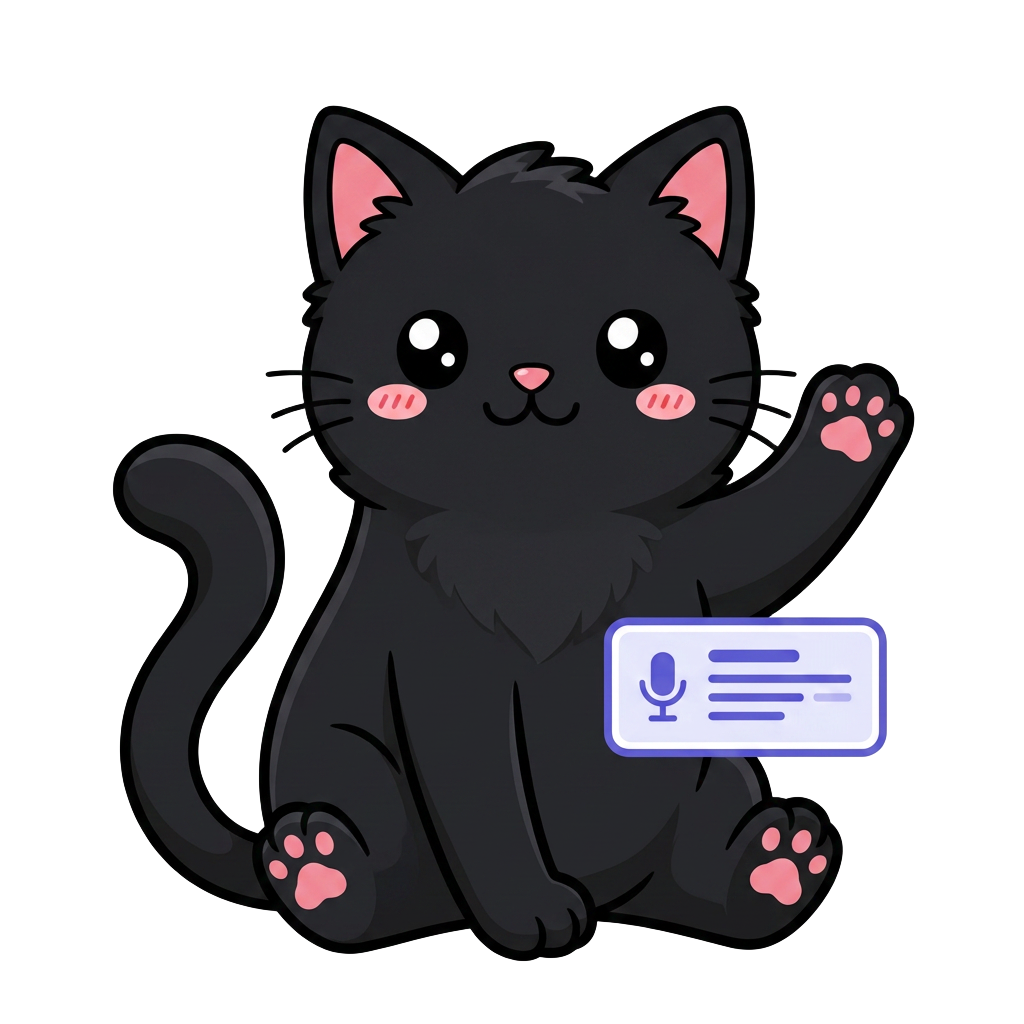
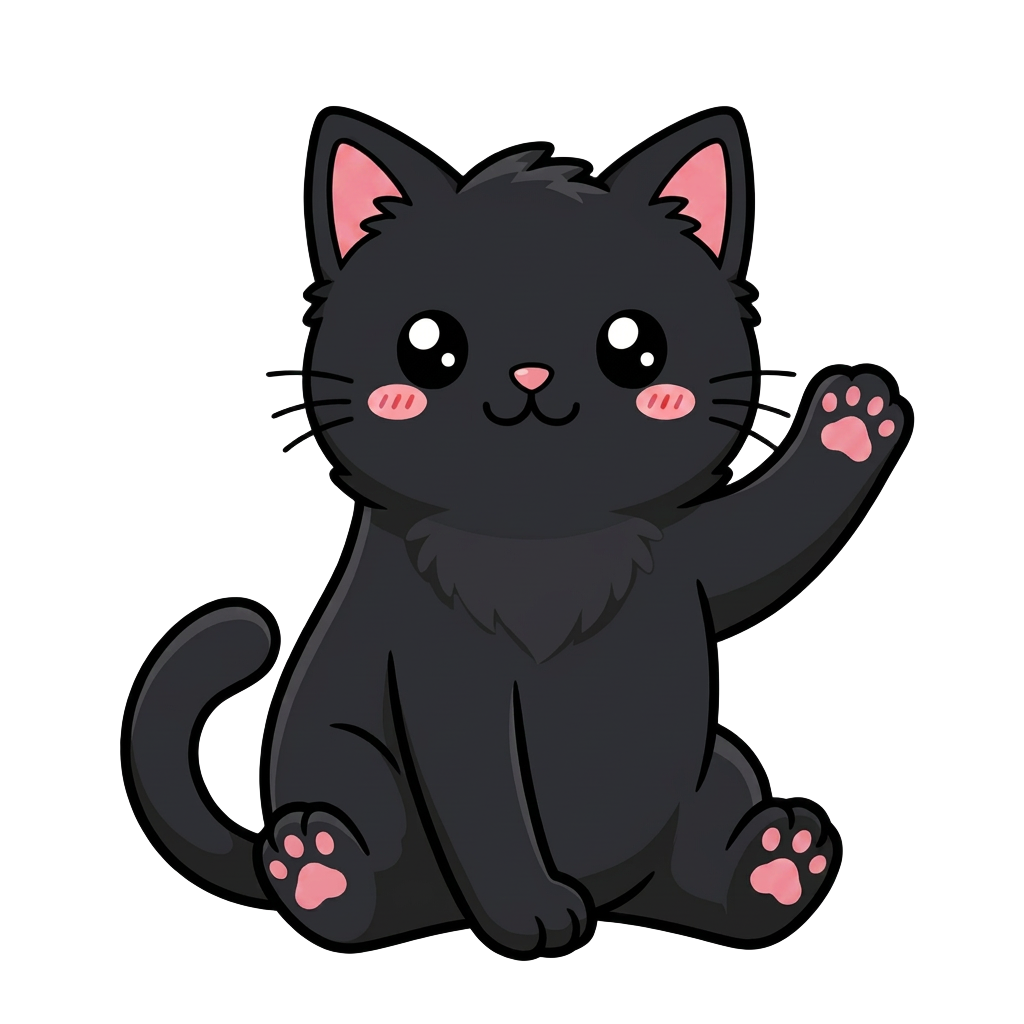
updated code and fixed the error and issues

Changed region(s): [[0.5625, 0.5938, 0.875, 0.75], [0.0938, 0.4062, 0.2812, 0.7188]]

diff --git a/lib/components/AmbientBackground.tsx b/lib/components/AmbientBackground.tsx
@@ -1,67 +1,118 @@
-import React from 'react';
-import { View, StyleSheet } from 'react-native';
-import { Colors } from '../theme/tokens';
+import React, { useEffect, useRef } from 'react';
+import { View, StyleSheet, Animated, Easing } from 'react-native';
 
 interface AmbientBackgroundProps {
-  /** If true, uses white/lighter blobs suited for dark backgrounds like the onboarding screens. */
+  /** White/light blobs for dark backgrounds (onboarding). */
   isDarkTheme?: boolean;
+  /** Set false to disable the slow drift animation (e.g. reduced motion). */
+  animated?: boolean;
+  /** Global opacity multiplier for the whole ambient layer. */
+  intensity?: number;
 }
 
-export function AmbientBackground({ isDarkTheme = false }: AmbientBackgroundProps) {
+const PRIMARY = '108,92,231';   // #6C5CE7
+const ACCENT  = '255,122,156';  // #FF7A9C
+const GOLD    = '240,169,59';   // #F0A93B
+
+function useDrift(enabled: boolean, duration: number, delay = 0) {
+  const v = useRef(new Animated.Value(0)).current;
+  useEffect(() => {
+    if (!enabled) return;
+    const loop = Animated.loop(
+      Animated.sequence([
+        Animated.timing(v, {
+          toValue: 1,
+          duration,
+          delay,
+          easing: Easing.inOut(Easing.sin),
+          useNativeDriver: true,
+        }),
+        Animated.timing(v, {
+          toValue: 0,
+          duration,
+          easing: Easing.inOut(Easing.sin),
+          useNativeDriver: true,
+        }),
+      ]),
+    );
+    loop.start();
+    return () => loop.stop();
+  }, [enabled, duration, delay, v]);
+  return v;
+}
+
+export function AmbientBackground({
+  isDarkTheme = false,
+  animated = true,
+  intensity = 1,
+}: AmbientBackgroundProps) {
+  const a = useDrift(animated, 9000);
+  const b = useDrift(animated, 11000, 600);
+  const c = useDrift(animated, 13000, 1200);
+
+  const tint = (rgb: string, dark: number, light: number) =>
+    `rgba(${rgb},${(isDarkTheme ? dark : light) * intensity})`;
+
+  const move = (v: Animated.Value, x: number, y: number, s = 0.06) => ({
+    transform: [
+      { translateX: v.interpolate({ inputRange: [0, 1], outputRange: [0, x] }) },
+      { translateY: v.interpolate({ inputRange: [0, 1], outputRange: [0, y] }) },
+      { scale: v.interpolate({ inputRange: [0, 1], outputRange: [1, 1 + s] }) },
+    ],
+  });
+
   return (
     <View style={StyleSheet.absoluteFill} pointerEvents="none">
-      <View
+      {/* Soft top glow — anchors the header area */}
+      <Animated.View
         style={[
           styles.blob,
           styles.blobTop,
-          {
-            backgroundColor: isDarkTheme
-              ? 'rgba(255,255,255,0.18)'
-              : 'rgba(108,92,231,0.15)', // Colors.Primary
-          },
+          { backgroundColor: tint(PRIMARY, 0.2, 0.16) },
+          move(a, 0, 26, 0.08),
         ]}
       />
-      <View
+      <Animated.View
         style={[
           styles.blob,
           styles.blobRight,
-          {
-            backgroundColor: isDarkTheme
-              ? 'rgba(255,122,156,0.24)'
-              : 'rgba(255,122,156,0.16)', // Colors.Accent
-          },
+          { backgroundColor: tint(ACCENT, 0.24, 0.16) },
+          move(b, -22, 18),
         ]}
       />
-      <View
+      <Animated.View
         style={[
           styles.blob,
           styles.blobLeft,
-          {
-            backgroundColor: isDarkTheme
-              ? 'rgba(240,169,59,0.22)'
-              : 'rgba(240,169,59,0.16)', // Colors.ProGold
-          },
+          { backgroundColor: tint(GOLD, 0.2, 0.14) },
+          move(c, 20, -20),
         ]}
       />
-      <View
+      <Animated.View
         style={[
           styles.blob,
           styles.blobBottomRight,
-          {
-            backgroundColor: isDarkTheme
-              ? 'rgba(255,255,255,0.15)'
-              : 'rgba(108,92,231,0.12)', // Colors.Primary
-          },
+          { backgroundColor: tint(PRIMARY, 0.16, 0.12) },
+          move(b, -14, -22, 0.1),
         ]}
       />
-      <View
+      <Animated.View
         style={[
           styles.blob,
           styles.blobMiddleLeft,
+          { backgroundColor: tint(GOLD, 0.16, 0.1) },
+          move(a, 16, 14, 0.12),
+        ]}
+      />
+
+      {/* Depth vignette: pushes blobs back so foreground text stays crisp */}
+      <View
+        style={[
+          StyleSheet.absoluteFill,
           {
             backgroundColor: isDarkTheme
-              ? 'rgba(240,169,59,0.18)'
-              : 'rgba(240,169,59,0.12)', // Colors.ProGold
+              ? 'rgba(20,19,26,0.10)'
+              : 'rgba(255,255,255,0.28)',
           },
         ]}
       />
@@ -70,38 +121,10 @@ export function AmbientBackground({ isDarkTheme = false }: AmbientBackgroundProp
 }
 
 const styles = StyleSheet.create({
-  blob: {
-    position: 'absolute',
-    borderRadius: 999,
-  },
-  blobTop: {
-    width: 420,
-    height: 420,
-    top: -180,
-    alignSelf: 'center',
-  },
-  blobRight: {
-    width: 260,
-    height: 260,
-    top: 140,
-    right: -120,
-  },
-  blobLeft: {
-    width: 220,
-    height: 220,
-    top: 400,
-    left: -110,
-  },
-  blobBottomRight: {
-    width: 180,
-    height: 180,
-    bottom: -40,
-    right: -60,
-  },
-  blobMiddleLeft: {
-    width: 140,
-    height: 140,
-    top: 160,
-    left: -70,
-  },
+  blob: { position: 'absolute', borderRadius: 999 },
+  blobTop: { width: 460, height: 460, top: -210, alignSelf: 'center' },
+  blobRight: { width: 280, height: 280, top: 130, right: -130 },
+  blobLeft: { width: 240, height: 240, top: 390, left: -120 },
+  blobBottomRight: { width: 200, height: 200, bottom: -50, right: -70 },
+  blobMiddleLeft: { width: 150, height: 150, top: 150, left: -75 },
 });

diff --git a/lib/screens/PaywallScreen.tsx b/lib/screens/PaywallScreen.tsx
@@ -1,4 +1,4 @@
-import { useEffect, useState } from 'react';
+import { useEffect, useRef, useState } from 'react';
 import {
   ActivityIndicator,
   Image,
@@ -26,7 +26,6 @@ const PRO_FEATURES = [
   'Create unlimited digests — no daily limit',
   'Keep 30 days of digest history',
   'Get your digest first with faster AI processing',
-  'Support an indie app that keeps building',
 ];
 
 function getHeadlineForRole(role: string | null): string {
@@ -49,6 +48,7 @@ export function PaywallScreen({ role, onBack, onPurchaseSuccess }: PaywallScreen
   const [errorMessage, setErrorMessage] = useState<string | null>(null);
   const [showGuestModal, setShowGuestModal] = useState(false);
   const [showSuccessModal, setShowSuccessModal] = useState(false);
+  const purchaseInFlightRef = useRef(false);
 
   const auth = getAuth();
   const user = auth.currentUser;
@@ -74,21 +74,37 @@ export function PaywallScreen({ role, onBack, onPurchaseSuccess }: PaywallScreen
   }, []);
 
   async function handlePurchase(pkg: PurchasesPackage) {
+    if (purchaseInFlightRef.current) return;
+
     if (isGuest) {
       setShowGuestModal(true);
       return;
     }
+
+    purchaseInFlightRef.current = true;
     setPurchasingPackageId(pkg.identifier);
     setErrorMessage(null);
     try {
       const { customerInfo } = await Purchases.purchasePackage(pkg);
       if (customerInfo.entitlements.active['pro']) setShowSuccessModal(true);
     } catch (error: unknown) {
-      const err = error as { userCancelled?: boolean };
+      const err = error as {
+        userCancelled?: boolean;
+        message?: string;
+        underlyingErrorMessage?: string;
+        debugMessage?: string;
+      };
       if (err.userCancelled) return;
       console.warn('Purchase failed', error);
-      setErrorMessage("That didn't go through. Please try again.");
+
+      const detail = err.underlyingErrorMessage || err.debugMessage || err.message;
+      if (detail && detail.toLowerCase().includes('published')) {
+        setErrorMessage('Google Play needs the app version to be published before purchases can be completed.');
+      } else {
+        setErrorMessage("That didn't go through. Please try again.");
+      }
     } finally {
+      purchaseInFlightRef.current = false;
       setPurchasingPackageId(null);
     }
   }

diff --git a/lib/screens/GoogleSignInScreen.tsx b/lib/screens/GoogleSignInScreen.tsx
@@ -202,7 +202,6 @@ export function GoogleSignInScreen({
       {/* ---------------- DOCKED ACTION PANEL ---------------- */}
       <Animated.View style={[styles.panel, panelStyle]}>
         <Text style={styles.panelTitle}>Start your first summary</Text>
-        <Text style={styles.panelSub}>Free forever. No card, no setup.</Text>
 
         {errorMessage ? (
           <View style={styles.errorChip}>
@@ -345,13 +344,6 @@ const styles = StyleSheet.create({
     elevation: 18,
   },
   panelTitle: { fontSize: 19, fontWeight: '800', color: C.ink, textAlign: 'center' },
-  panelSub: {
-    fontSize: 13.5,
-    color: C.muted,
-    textAlign: 'center',
-    marginTop: -6,
-    marginBottom: 2,
-  },
 
   errorChip: {
     backgroundColor: '#FEF2F2',

diff --git a/babel.config.js b/babel.config.js
@@ -1,0 +1,13 @@
+module.exports = function (api) {
+  api.cache(true);
+  const plugins = [];
+
+  if (process.env.NODE_ENV === 'production') {
+    plugins.push('transform-remove-console');
+  }
+
+  return {
+    presets: ['babel-preset-expo'],
+    plugins,
+  };
+};
